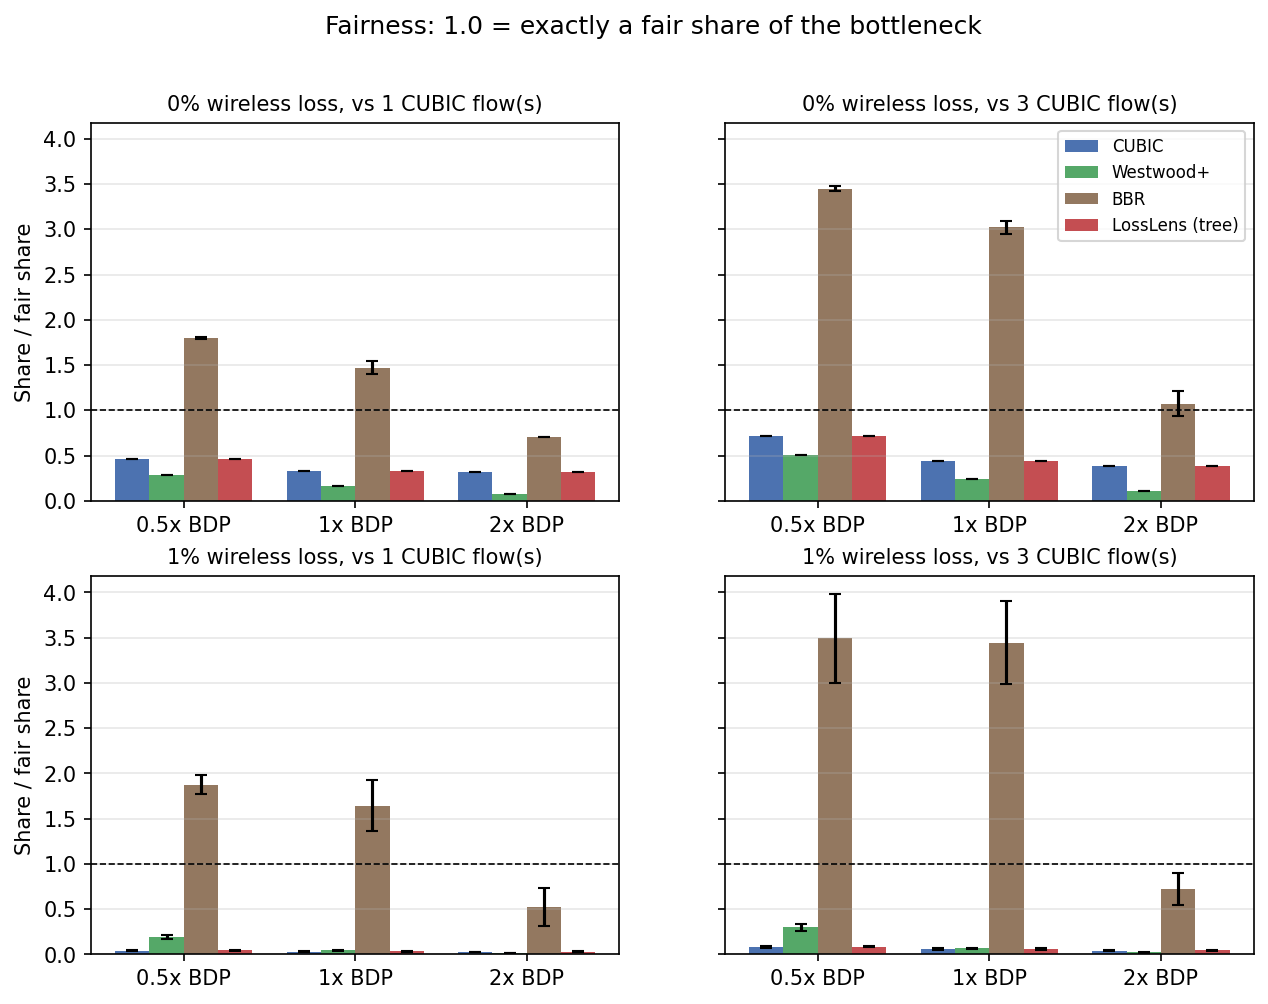
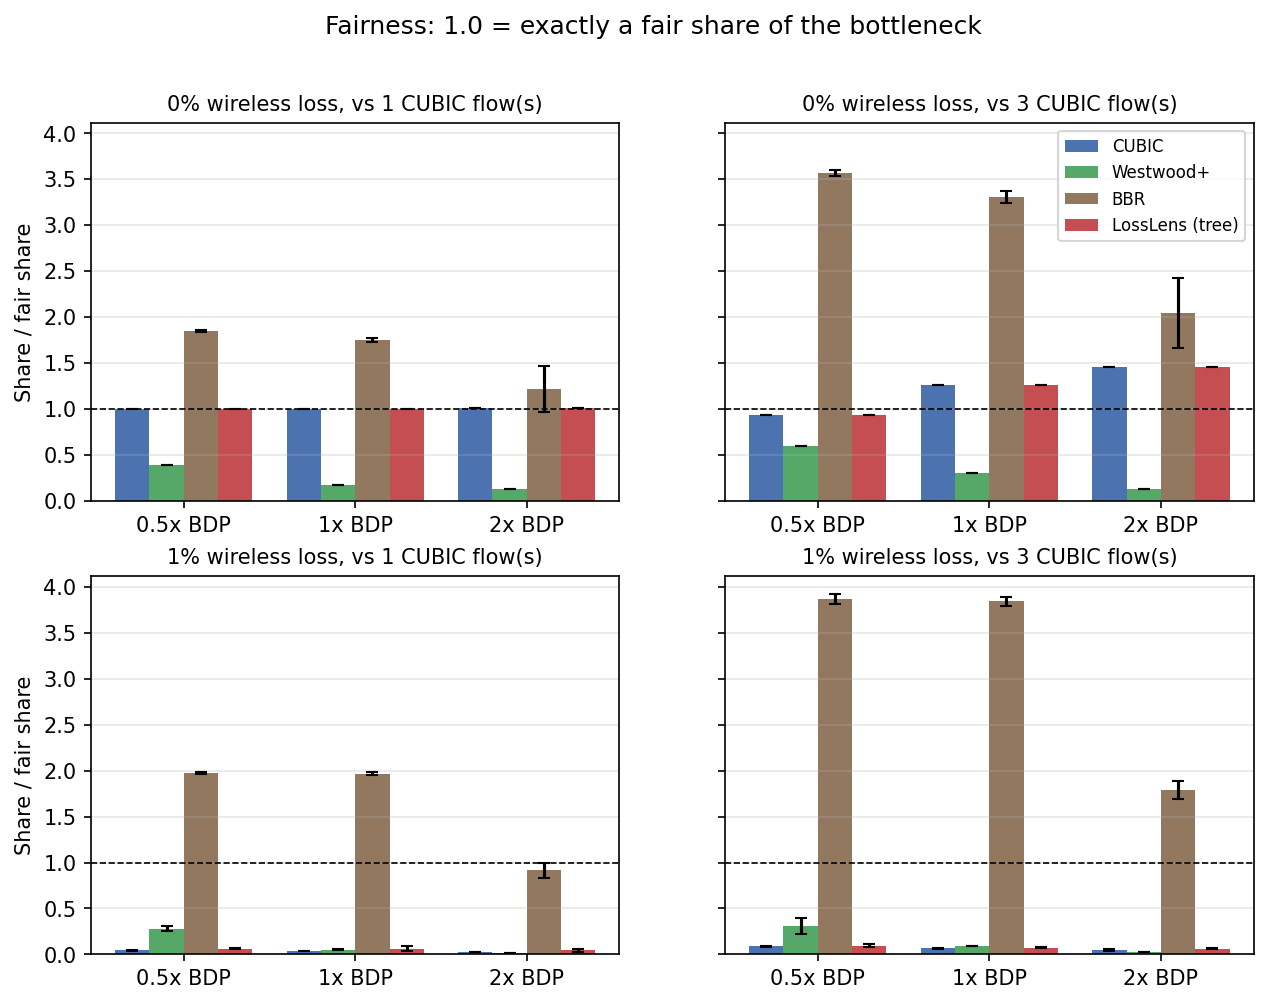
Fairness rerun: equal start and 60 s runs
CUBIC vs CUBIC now reaches 1.00 of a fair share, and LossLens matches
CUBIC exactly in every loss-free case; BBR takes up to 3.9x.

diff --git a/README.md b/README.md
@@ -39,8 +39,10 @@ Mean of 3 runs of 30 s, with bursty background traffic using 30% of the link on 
 
 - **Oracle** (perfect loss classification) brings CUBIC back to its loss-free speed
   (34.6 / 42.3 Mbps); the trained decision tree recovers about 70% of that.
-- **Safe:** under pure congestion LossLens behaves exactly like CUBIC.
-- **BBR** is faster here but takes up to 3.5× its fair share from CUBIC users.
+- **Safe and fair:** under pure congestion LossLens behaves exactly like CUBIC, and when it
+  shares a link with CUBIC users it takes exactly the same share CUBIC would (1.00 of a
+  fair share against one CUBIC flow, 60 s runs, equal start).
+- **BBR** is faster here but takes up to 3.9× its fair share from CUBIC users.
 - **Limitation:** when other TCP flows keep the bottleneck queue full, the delay clues
   always look like congestion and LossLens falls back to plain CUBIC.
 
